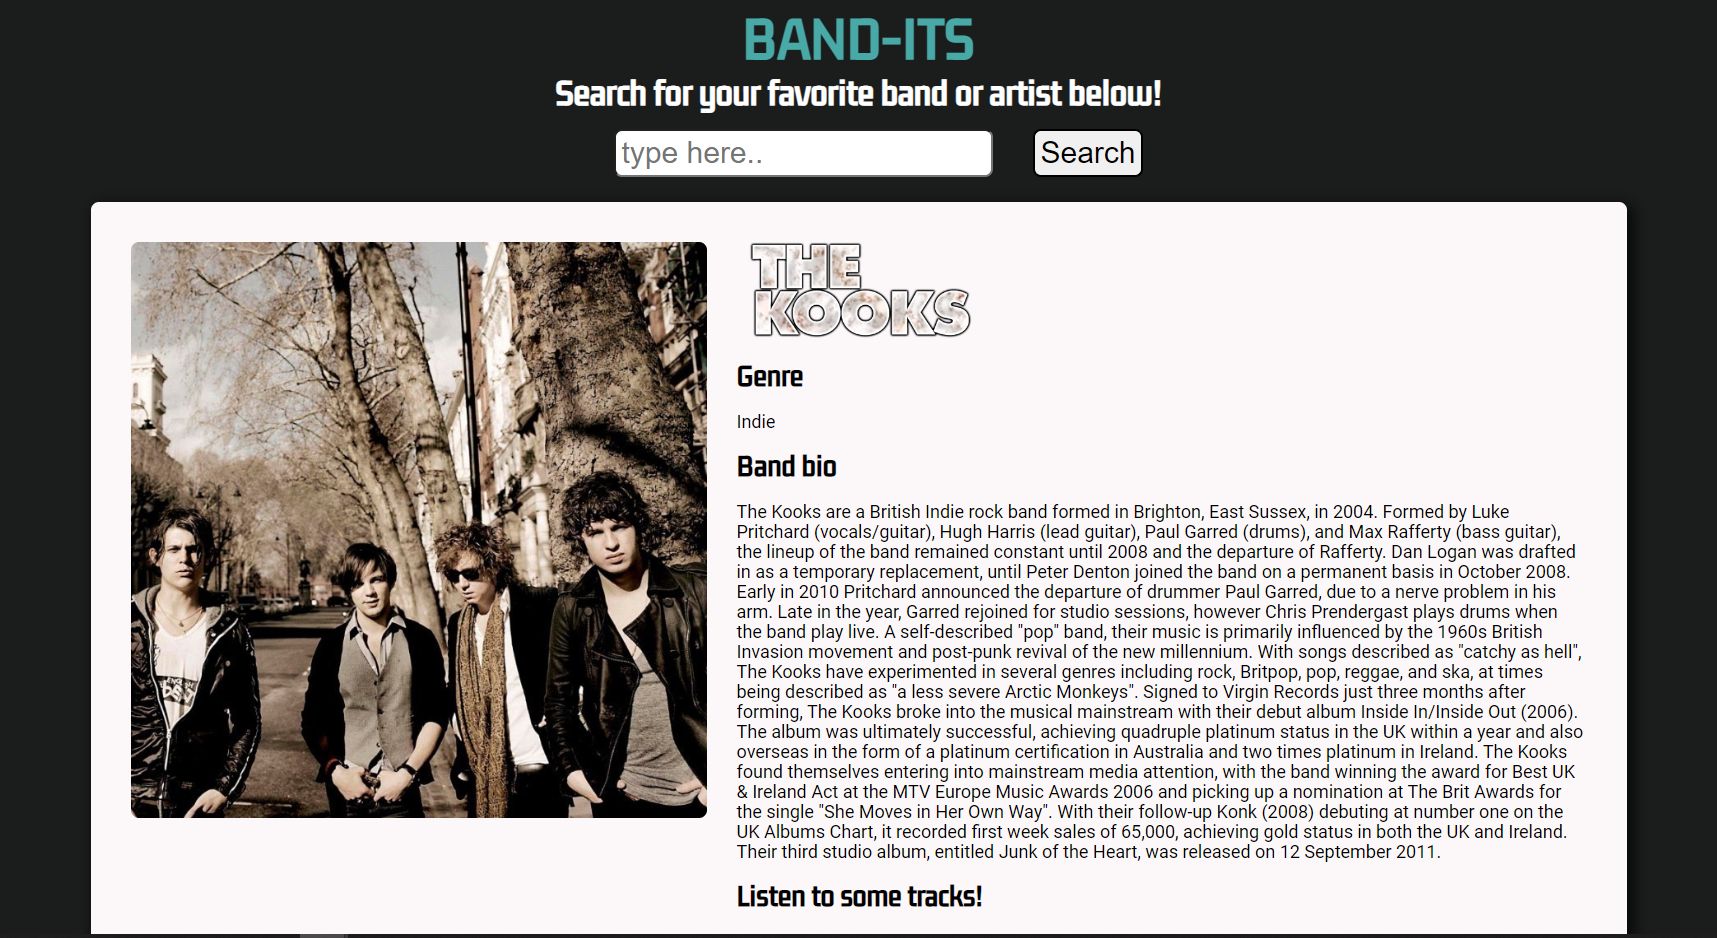
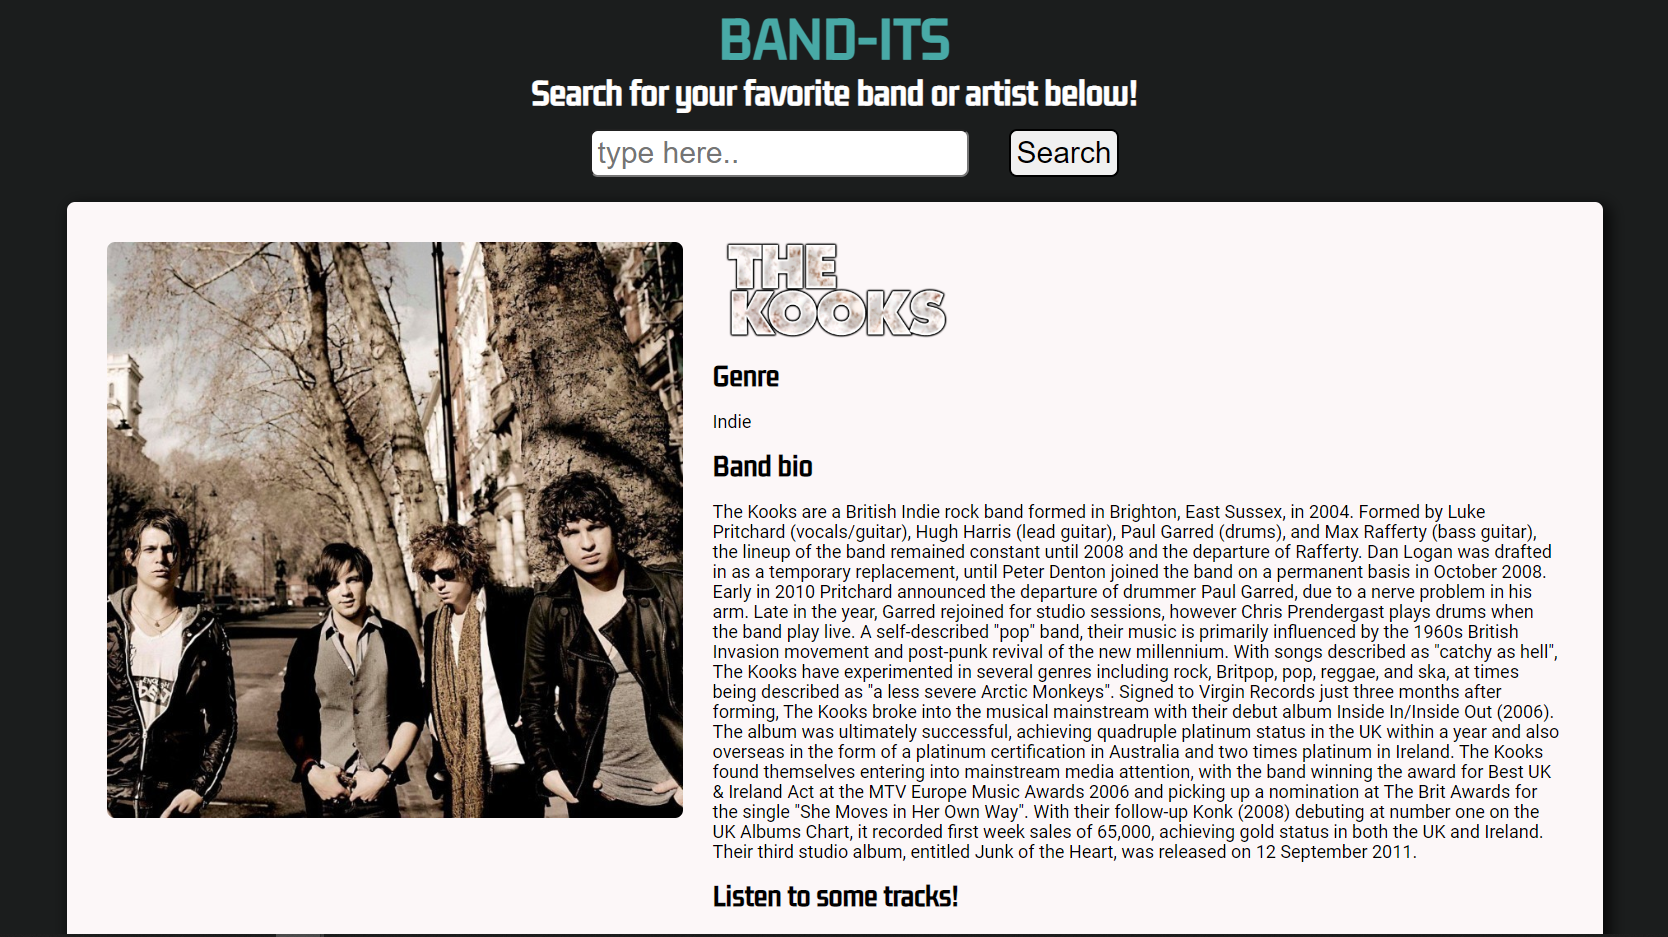
Project slides and form added

diff --git a/Profile/profile/src/Components/App/App.css b/Profile/profile/src/Components/App/App.css
@@ -1,4 +1,4 @@
-
+@import url('https://fonts.googleapis.com/css2?family=Mukta:wght@300&display=swap');
 
 .App {
   text-align: center;
@@ -53,7 +53,7 @@ padding-left: 10vw;
 
 .body{
   background-color: white;
-  min-height: 50vh;
+  height: 40vh;
   width: 100vw;
   display: flex;
   flex-direction: row;
@@ -65,7 +65,7 @@ padding-left: 10vw;
 .display{
   border-radius: 5px;
   background-color: #31343a;
-  min-height: 50vh;
+  min-height: 40vh;
   width: 32vw;
   display: flex;
   flex-direction: column;
@@ -75,16 +75,19 @@ padding-left: 10vw;
   padding-left: 1.5vw;
   padding-right: 1.5vw;
   font-size: 18px;
+  font-family: 'Mukta', sans-serif;
 }
 
 .display-links{
  display: flex;
- flex-direction: column;
- gap: 5vh;
+ flex-direction: row;
+ align-items: center;
+ justify-content: space-evenly;
+ padding-top: 3vh;
 }
 
 .selector{
-  min-height: 50vh;
+  min-height: 40vh;
   width: 35vw;
   display: flex;
   flex-direction: column;
@@ -98,11 +101,12 @@ padding-left: 10vw;
 .button{
   background-color: #31343a ;
   border-radius: 5px ;
-  height: 10vh;
+  height: 7vh;
   width: 35vw;
   color: white;
   font-size: calc(10px + 2vmin);
-  border: none
+  border: none;
+  font-family: 'Mukta', sans-serif;
 }
 
 .button:hover {
@@ -121,6 +125,7 @@ padding-left: 10vw;
   height: auto;
   display: flex;
   flex-direction: column;
+  align-items: center;
   border-color: #d9d9da;
   border-radius: 5px;
   margin-bottom: 50px;
@@ -128,11 +133,21 @@ padding-left: 10vw;
   padding: 5px;
   
 }
+.project-card-image{
+  width:14vw;
+  height:auto;
+}
 .project-card:hover {
   color: white;
   background-color: #31343a;
   box-shadow: 0 12px 16px 0 rgba(0,0,0,0.24), 0 17px 50px 0 rgba(0,0,0,0.19);
-  
+
+}
+
+.form{
+  width:20vw;
+  display: flex;
+  flex-direction: column;
 }
 
 footer{

diff --git a/Profile/profile/src/Components/content.js b/Profile/profile/src/Components/content.js
@@ -5,24 +5,24 @@
 const Content = [
 {   id:0, 
     title: "About Me",
-    content: "Thank you for visiting me profile page my name is Glyn. After 9 years in the military then 12 years in the health and fitness indusrty I retrained as a developer with the School of Code. I love the challenge of endurance sport and have completed Ultra maratohns and an Ironman Triathlon "},
+    content: "Thank you for visiting me profile page my name is Glyn. After 9 years in the military then 12 years in the health and fitness indusrty I have retrained as a developer with the School of Code.",
+    content2: "I love the challenge of endurance sport and have cycled form Lands End to John O'Graots, completed a 50mile ultra marathon  and an Ironman Triathlon. I am currently training for a 100 mile Ultra marathon."
+
+},
 
 {   id:1,
     title: "Projects",
-    content: "Meditation App , Todo List, Band API, Team Project (1 Week), Team Project ( 4week) ",
-    project1: "Meditation App",
-    project2: "Todo List",
-    project3: "Bands API", 
-    project4: "Team Project (1 week)",   
-    project5: "Team Project (4 week)"},
+    content: "Please see below for a some of the projects I have been working on recently",
+   },
 
 {   id:2,
     title: "Experience",    
-    content: "During my short time in tech I have learnt a lot:  HTML, CSS, JavaScript, React, NodeJS, PostgeSQL "},
+    content: "During my short time in tech I have learnt a lot:  HTML, CSS, JavaScript, React, NodeJS, PostgeSQL, Agile Methodolgy ",
+    content2: "As well as this I bring professionalisum, adatabilty, disaplin, and soft skills from my previous roles. "
+},
 
 {   id:3,
     title: "Connect",
-    email: " -  glynknight@outlook.com"
     }
 ]
 

diff --git a/Profile/profile/src/Components/Project Display/projectdisplay.js b/Profile/profile/src/Components/Project Display/projectdisplay.js
@@ -1,18 +1,33 @@
 import ProjectCard from "../ProjectCard/ProjectCard";
 import Projects from "../Projects/projects";
+import BandIts from '../BandIts.PNG'
+import Med from '../Med.PNG'
+import ToDo from '../ToDo.png'
+import GetaNote from '../GetaNote.PNG'
 
 export default function ProjectDisplay ({className}) {
- return <div className={className}>
-    {Projects.map((item) => {
-    return (
+ return <section className={className}>
       <ProjectCard
-        key= {item.id}
-        title={item.title}
-        img={item.img}
-        link={item.link}
+        title={Projects[0].title}
+        img={Med}
+        link={Projects[0].link}
       />
-      )
-
-})}
-</div>
+      <ProjectCard
+        title={Projects[1].title}
+        img={ToDo}
+        link={Projects[1].link}
+      />
+      <ProjectCard
+        title={Projects[2].title}
+        img={BandIts}
+        link={Projects[2].link}
+      />
+      <ProjectCard
+    
+        title={Projects[3].title}
+        img={GetaNote}
+        link={Projects[3].link}
+      />
+      
+</section>
 }

diff --git a/Profile/profile/src/Components/Display/display.js b/Profile/profile/src/Components/Display/display.js
@@ -1,17 +1,20 @@
 import githubwhite from "./githubwhite.png";
 import linedwhite from "./linkedwhite.png";
-import emailwhite from "./emailwhite.png";
+import Form from "../Form/form";
+
 
 export default function Display({ display }) {
   return (
     <section>
       <h3>{display.title}</h3>
       <p>{display.content}</p>
-
+      <p>{display.content2}</p>
       {display.id === 3 ? (
+ <section>
+        <Form className="form"/>
         <div className="display-links">
-          <div>
-            <a
+                <div>
+              <a
               href="https://github.com/GLYNKNIGHT"
               target="_blank"
               rel="noreferrer"
@@ -28,11 +31,11 @@ export default function Display({ display }) {
               <img src={linedwhite} alt="github" />
             </a>
           </div>
-          <div>
-            <img src={emailwhite} alt="email" /> {display.email}
-          </div>
-        </div>
+              </div>
+              </section>
       ) : null}
+
+      
     </section>
   );
 }

diff --git a/Profile/profile/src/Components/ProjectCard/ProjectCard.js b/Profile/profile/src/Components/ProjectCard/ProjectCard.js
@@ -1,15 +1,16 @@
 import { useContext } from "react"
-import {StyleContext} from '../App/context.js'
+import {CardStyleContext, CardImgStyle} from '../App/context.js'
 
 
 
 export default function ProjectCard ({title,img,link}){
-console.log(img)
-    const style =useContext(StyleContext)
-return <article className={style}>
+
+    const cardStyle =useContext(CardStyleContext)
+    const cardImgStyle = useContext(CardImgStyle)
+return <article className={cardStyle}>
+    <img className={cardImgStyle} src={img} alt="Project" />
     <h3>{title}</h3>
-    <img src={img} alt="Project" />
-    <p>{link}</p>
+
 </article>
 
 }

diff --git a/Profile/profile/src/Components/Projects/projects.js b/Profile/profile/src/Components/Projects/projects.js
@@ -1,27 +1,19 @@
-import BandIts from '../BandIts.PNG'
-import Med from '../Med.PNG'
-import ToDo from '../ToDo.PNG'
 
 
 const Projects = [
 {title: 'Maditation App',
-img: {Med},
 link: "Link"
 },
 {title: 'ToDo',
-img: {ToDo},
 link: "Link"
 },
 {title: 'Band API',
-img: {BandIts},
 link: "Link"
 },
 {title: '1 Week Project',
-img:'https://www.flickr.com/photos/195415259@N06/52211802815',
 link: "Link"
 },
 {title: '4 Week Project',
-img:'https://www.flickr.com/photos/195415259@N06/52211802815',
 link: "Link"
 }
 ]

diff --git a/Profile/profile/src/Components/Form/form.js b/Profile/profile/src/Components/Form/form.js
@@ -1,0 +1,10 @@
+
+
+export default function Form({className}){
+    return <form className={className}>
+    <label>Name</label><input type="text" placeholder="Name" />
+    <label>Email</label><input type="email" placeholder="your@email.com"/>
+    <label>Question</label><input type="text" placeholder="Questions?" />
+    <button>Submit</button>
+    </form>
+}

diff --git a/Profile/profile/src/Components/App/context.js b/Profile/profile/src/Components/App/context.js
@@ -1,3 +1,4 @@
 import { createContext } from 'react';
 
-export const StyleContext = createContext("project-card");
+export const CardStyleContext = createContext("project-card");
+export const CardImgStyle = createContext("project-card-image")
